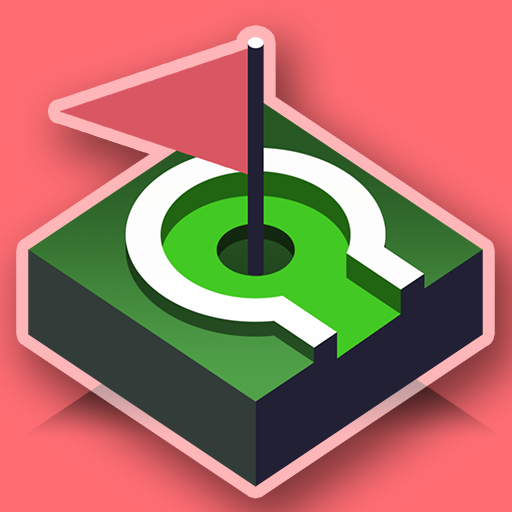
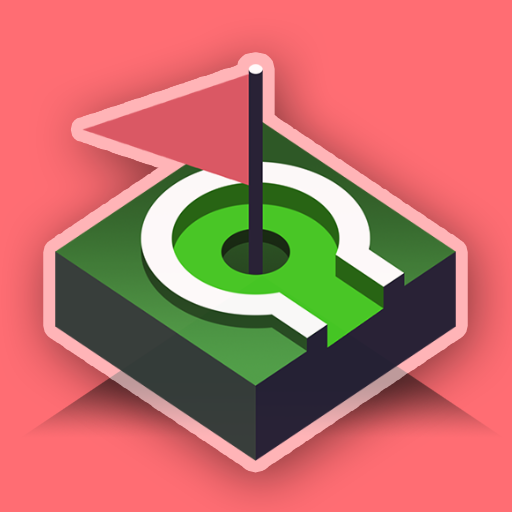
updates

diff --git a/putthole.html b/putthole.html
@@ -6,7 +6,7 @@
 	    <link rel="icon" type="image/png" href="assets/gapcatIcon.png">
 	    <script src="libs/jquery-1.11.1.min.js"></script>
 	</head>
-	<body style="background-color: #ff6666;">
+	<body style="background-color: #FF5169;">
 		<div style="text-align: center;">
 			<img src="assets/puttholeTitle.png" height="256">
 			<br/>
